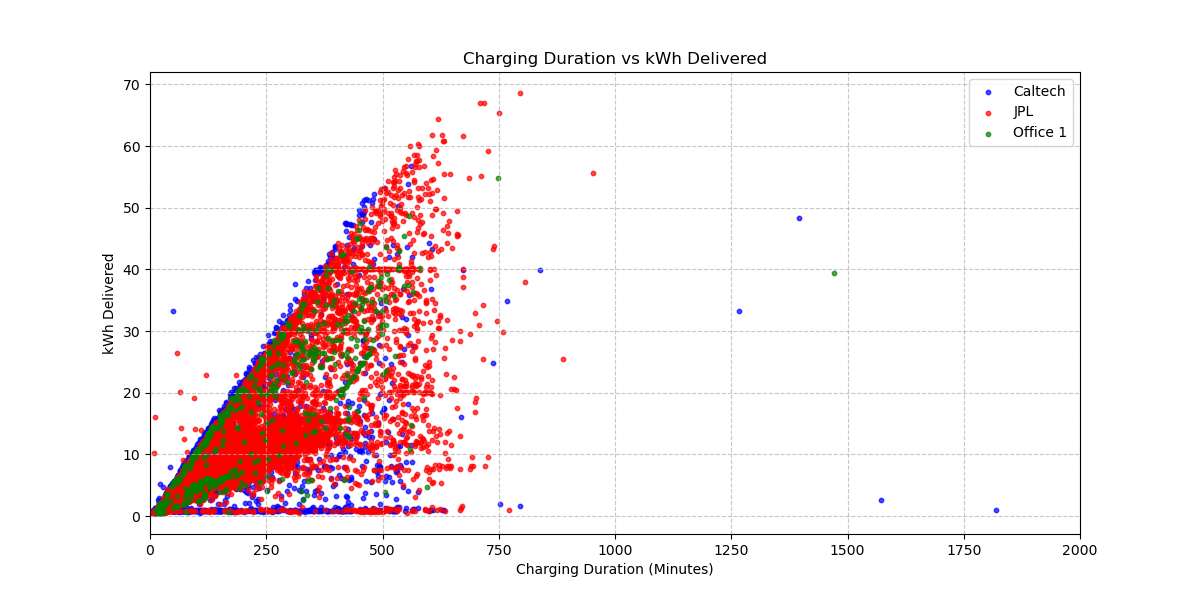
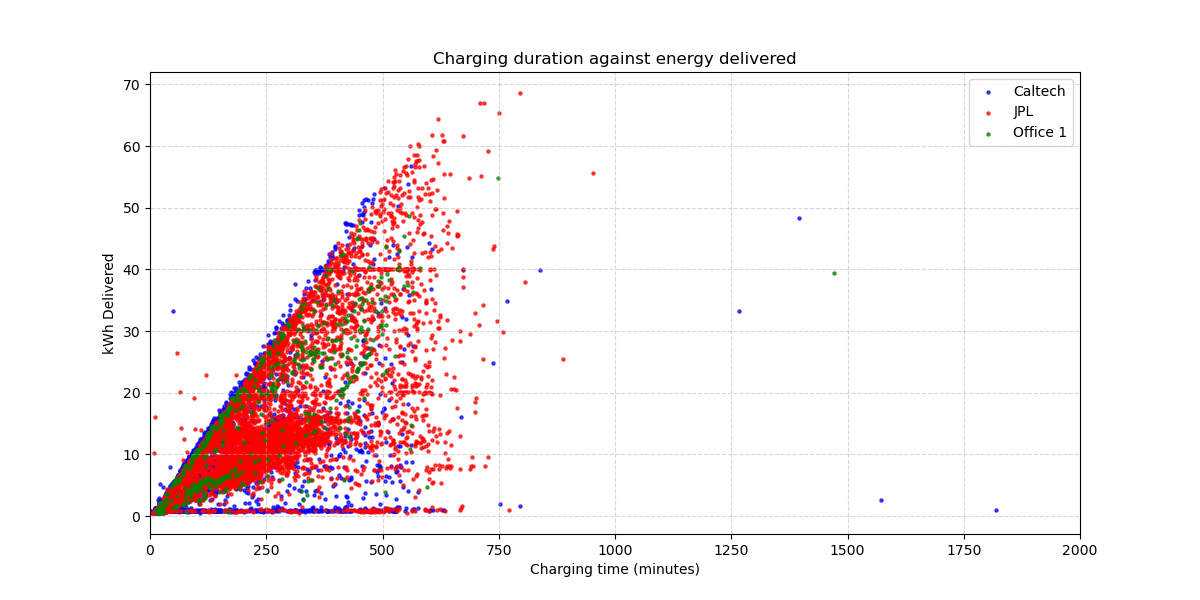
final scatter plots

Changed region(s): [[0.1233, 0.21, 0.4008, 0.87], [0.37, 0.09, 0.6783, 0.12], [0.4317, 0.93, 0.5858, 0.96]]

diff --git a/data analysis.py b/data analysis.py
@@ -1,218 +1,76 @@
 import pandas as pd
 import matplotlib.pyplot as plt
+import numpy as np
+import seaborn as sns
 
+# Load the CSV files
 df1 = pd.read_csv("Data/acndata_sessions 2019_11 till 2020_5 caltech.csv")
 df2 = pd.read_csv("Data/acndata_sessions 2019_11 till 2020_5 jpl.csv")
 df3 = pd.read_csv("Data/acndata_sessions 2019_11 till 2020_5 office1.csv")
 
-frequency = df1['userID'].value_counts()
-print(frequency)
-
-frequency2 = df2['userID'].value_counts()
-print(frequency2)
-
-frequency3 = df3['userID'].value_counts()
-print(frequency3)
-
-#frequency.plot(kind="bar")
-
-plt.show()
-
-# Load the CSV into a DataFrame
-df = pd.read_csv('Data/acndata_sessions 2019_11 till 2020_5 caltech.csv')
-
-# Load the three CSV files
-df1 = pd.read_csv('Data/acndata_sessions 2019_11 till 2020_5 caltech.csv')
-df2 = pd.read_csv('Data/acndata_sessions 2019_11 till 2020_5 jpl.csv')
-df3 = pd.read_csv('Data/acndata_sessions 2019_11 till 2020_5 office1.csv')
-
-# Function to process each dataset
+# Function to process data
 def process_data(df):
+    # Convert to datetime
     df[['connectionTime', 'doneChargingTime', 'disconnectTime']] = df[
         ['connectionTime', 'doneChargingTime', 'disconnectTime']
     ].apply(pd.to_datetime, errors='coerce')
 
+    # Calculate durations
     df['chargingDuration'] = (df['doneChargingTime'] - df['connectionTime']).dt.total_seconds() / 60
     df['stayingDuration'] = (df['disconnectTime'] - df['connectionTime']).dt.total_seconds() / 60
-    df['nonuseDuration'] = (df['stayingDuration'] - df['chargingDuration'])
-    return df.dropna(subset=['chargingDuration', 'stayingDuration', 'nonuseDuration', 'kWhDelivered'])
-
-# Process all datasets efficiently
-datasets = [df1, df2, df3]
-df1, df2, df3 = [process_data(df) for df in datasets]
-
-
-#Arrivel time vs. staying duration
-
-def process_data3(df):
-    # Convert to datetime (ensuring timezone awareness)
-    df.loc[:, 'connectionTime'] = pd.to_datetime(df['connectionTime'], errors='coerce', utc=True)
-
+    df['nonuseDuration'] = df['stayingDuration'] - df['chargingDuration']
+    
     # Convert connectionTime to PDT
-    df.loc[:, 'connectionTime_PDT'] = df['connectionTime'].dt.tz_convert('America/Los_Angeles')
+    df['connectionTime_PDT'] = df['connectionTime'].dt.tz_localize('UTC').dt.tz_convert('America/Los_Angeles')
+    df['arrivalMinutes'] = df['connectionTime_PDT'].dt.hour * 60 + df['connectionTime_PDT'].dt.minute
+    df['arrivalDate'] = df['connectionTime_PDT'].dt.date  # Extract arrival date
 
-    # Remove timezone from connectionTime_PDT for plotting purposes
-    df.loc[:, 'arrivalMinutes'] = df['connectionTime_PDT'].dt.hour * 60 + df['connectionTime_PDT'].dt.minute  
-
-    # Convert disconnectTime to PDT and make it timezone-naive for calculations
-
-    # Calculate staying duration
-
-    return df.dropna(subset=['arrivalMinutes', 'stayingDuration'])
+    return df.dropna(subset=['chargingDuration', 'stayingDuration', 'nonuseDuration', 'kWhDelivered', 'arrivalMinutes'])
 
 # Process all datasets
-df1, df2, df3 = [process_data3(df) for df in [df1, df2, df3]]
+df1, df2, df3 = [process_data(df) for df in [df1, df2, df3]]
 
-# Plot settings
-fig, ax = plt.subplots(figsize=(12, 6))
+# Define colors
+colors = {'Caltech': 'blue', 'JPL': 'red', 'Office1': 'green'}
 
-# Scatter plots for each dataset
-ax.scatter(df1['arrivalMinutes'], df1['stayingDuration'], color='b', s=10, alpha=0.7, label="Caltech")
-ax.scatter(df2['arrivalMinutes'], df2['stayingDuration'], color='r', s=10, alpha=0.7, label="JPL")
-ax.scatter(df3['arrivalMinutes'], df3['stayingDuration'], color='g', s=10, alpha=0.7, label="Office 1")
+# Helper function to create scatter plots
+def plot_scatter(x, y, xlabel, ylabel, title):
+    fig, ax = plt.subplots(figsize=(12, 6))
+    ax.scatter(df1[x], df1[y], color=colors['Caltech'], s=5, alpha=0.7, label="Caltech")
+    ax.scatter(df2[x], df2[y], color=colors['JPL'], s=5, alpha=0.7, label="JPL")
+    ax.scatter(df3[x], df3[y], color=colors['Office1'], s=5, alpha=0.7, label="Office 1")
+    ax.set_xlabel(xlabel)
+    ax.set_ylabel(ylabel)
+    ax.set_title(title)
+    ax.legend()
+    ax.grid(True, linestyle='--', alpha=0.5)
+    return fig, ax
 
-# Format x-axis to show time labels
-ax.set_xticks(range(0, 1441, 120))
-ax.set_xticklabels([f"{h:02d}:00" for h in range(0, 25, 2)])
-ax.set_ylim(0, 1000)
+# Plot 1: Arrival Time vs. Staying Duration
+fig1, ax1 = plot_scatter('arrivalMinutes', 'stayingDuration', 'Arrival time (PDT)', 'Staying time (minutes)', 'Arrival time against duration of stay')
+ax1.set_xticks(range(0, 1441, 120))
+ax1.set_xticklabels([f"{h:02d}:00" for h in range(0, 25, 2)])
+ax1.set_ylim(-75, 2000)
 
-# Format plot
-ax.set_xlabel('Arrival Time (PDT)')
-ax.set_ylabel('Staying Duration (Minutes)')
-ax.set_title('Arrival Time vs. Staying Duration (PDT)')
-ax.legend(loc='upper right')
-ax.grid(True, linestyle='--', alpha=0.5)
+# Plot 2: Charging Duration vs kWh Delivered
+fig2, ax2 = plot_scatter('chargingDuration', 'kWhDelivered', 'Charging time (minutes)', 'kWh Delivered', 'Charging duration against energy delivered')
+ax2.set_xlim(0, 2000)
 
-# Show plot
+# Plot 3: Staying Duration vs kWh Delivered
+fig3, ax3 = plot_scatter('stayingDuration', 'kWhDelivered', 'Stay time (minutes)', 'kWh Delivered', 'Durations of stay against energy delivered')
+ax3.set_xlim(0, 2000)
+
+# Plot 4: Non-use Duration vs kWh Delivered
+fig4, ax4 = plot_scatter('nonuseDuration', 'kWhDelivered', 'Non-use stay time (minutes)', 'kWh Delivered', 'Non-use staying time against energy delivered')
+ax4.set_xlim(0, 2000)
+
+# Plot 5: Arrival Time vs kWh Delivered
+fig5, ax5 = plot_scatter('arrivalMinutes', 'kWhDelivered', 'Arrival time (PDT)', 'kWh Delivered', 'Arrival time against energy delivered')
+ax5.set_xticks(range(0, 1441, 120))
+ax5.set_xticklabels([f"{h:02d}:00" for h in range(0, 25, 2)])
+
+# Plot 6: Arrival Date vs kWh Delivered
+fig6, ax6 = plot_scatter('arrivalDate', 'kWhDelivered', 'Arrival date', 'kWh Delivered', 'Arrival date against energy delivered')
+
+# Show all plots
 plt.show()
-
-
-# Arrival time vs kwh delivered
-# # Function to process datasets
-# def process_data2(df):
-#     df.loc[:, 'connectionTime'] = pd.to_datetime(df['connectionTime'], errors='coerce', utc=True)  # Convert to UTC
-#     df.loc[:, 'connectionTime_PDT'] = df['connectionTime'].dt.tz_convert('America/Los_Angeles')  # Convert to PDT
-#     df.loc[:, 'arrivalMinutes'] = df['connectionTime_PDT'].dt.hour * 60 + df['connectionTime_PDT'].dt.minute  # Convert to minutes since midnight
-    
-#      # Debug: Print a few timestamps before and after conversion
-#     print("Original UTC time:", df['connectionTime'].head(3))
-#     print("Converted PDT time:", df['connectionTime_PDT'].head(3))
-
-#     return df.dropna(subset=['arrivalMinutes', 'kWhDelivered'])  # Drop missing values
-
-# # Process all datasets
-# df1, df2, df3 = [process_data2(df) for df in [df1, df2, df3]]
-
-# # Plot settings
-# fig, ax = plt.subplots(figsize=(12, 6))
-
-# # Scatter plots for each dataset
-# ax.scatter(df1['arrivalMinutes'], df1['kWhDelivered'], color='b', s=10, alpha=0.7, label="Caltech")
-# ax.scatter(df2['arrivalMinutes'], df2['kWhDelivered'], color='r', s=10, alpha=0.7, label="JPL")
-# ax.scatter(df3['arrivalMinutes'], df3['kWhDelivered'], color='g', s=10, alpha=0.7, label="Office 1")
-
-# # Format x-axis to show time labels
-# ax.set_xticks(range(0, 1441, 120))  # Set x-ticks every 2 hours
-# ax.set_xticklabels([f"{h:02d}:00" for h in range(0, 25, 2)])  # Convert to readable format
-
-# # Format plot
-# ax.set_xlabel('Arrival Time (PDT)')
-# ax.set_ylabel('kWh Delivered')
-# ax.set_title('Arrival Time vs. kWh Delivered (PDT Time)')
-# ax.legend()
-# ax.grid(True, linestyle='--', alpha=0.5)
-
-# # Show the plot
-# plt.show()
-
-
-
-# plot arrival date vs. kwh delivered
-# # Function to process datasets
-# def process_data1(df):
-#     df['connectionTime'] = pd.to_datetime(df['connectionTime'], errors='coerce')
-#     df = df.dropna(subset=['connectionTime', 'kWhDelivered'])  # Drop missing values
-#     return df
-
-# # Process all datasets
-# df1, df2, df3 = [process_data1(df) for df in [df1, df2, df3]]
-
-# # Plot settings
-# fig, ax = plt.subplots(figsize=(12, 6))
-
-# # Scatter plots for each dataset
-# ax.scatter(df1['connectionTime'], df1['kWhDelivered'], color='b', s=5, alpha=0.7, label="Caltech")
-# ax.scatter(df2['connectionTime'], df2['kWhDelivered'], color='r', s=5, alpha=0.7, label="JPL")
-# ax.scatter(df3['connectionTime'], df3['kWhDelivered'], color='g', s=5, alpha=0.7, label="Office 1")
-
-# # Format plot
-# ax.set_xlabel('Arrival Time (Connection Time)')
-# ax.set_ylabel('kWh Delivered')
-# ax.set_title('Arrival Time vs. kWh Delivered')
-# ax.legend()
-# ax.grid(True, linestyle='--', alpha=0.5)
-# plt.xticks(rotation=45)  # Rotate x-axis labels for better visibility
-
-# # Show the plot
-# plt.show()
-
-
-
-
-##Plots of durations vs. kwh
-# # Create scatter plot
-# plt.figure(figsize=(12, 6))
-# plt.scatter(df1['chargingDuration'], df1['kWhDelivered'], color='b', s=10, alpha=0.7, label="Caltech")
-# plt.scatter(df2['chargingDuration'], df2['kWhDelivered'], color='r', s=10, alpha=0.7, label="JPL")
-# plt.scatter(df3['chargingDuration'], df3['kWhDelivered'], color='g', s=10, alpha=0.7, label="Office 1")
-
-# # Set limits and labels
-# plt.xlim(0, 2000)  # Limit x-axis to 2000 minutes
-# plt.xlabel('Charging Duration (Minutes)')
-# plt.ylabel('kWh Delivered')
-# plt.title('Charging Duration vs kWh Delivered')
-
-# #Add grid and legend
-# plt.grid(True, linestyle='--', alpha=0.7)
-# plt.legend()
-
-# #Show the plot
-# plt.show()
-
-# # Create scatter plot
-# plt.figure(figsize=(12, 6))
-# plt.scatter(df1['stayingDuration'], df1['kWhDelivered'], color='lightblue', s=10, alpha=0.7, label="Caltech stay")
-# plt.scatter(df2['stayingDuration'], df2['kWhDelivered'], color='orange', s=10, alpha=0.7, label="JPL stay")
-# plt.scatter(df3['stayingDuration'], df3['kWhDelivered'], color='lightgreen', s=10, alpha=0.7, label="Office 1 stay")
-
-# # Set limits and labels
-# plt.xlim(0, 4000)  # Limit x-axis to 2000 minutes
-# plt.xlabel('Staying Duration (Minutes)')
-# plt.ylabel('kWh Delivered')
-# plt.title('Staying Duration vs kWh Delivered')
-
-# # Add grid and legend
-# plt.grid(True, linestyle='--', alpha=0.7)
-# plt.legend()
-
-# # Show the plot
-# plt.show()
-
-# # Create scatter plot
-# plt.figure(figsize=(12, 6))
-# plt.scatter(df1['nonuseDuration'], df1['kWhDelivered'], color='darkblue', s=10, alpha=0.7, label="Caltech non use")
-# plt.scatter(df2['nonuseDuration'], df2['kWhDelivered'], color='yellow', s=10, alpha=0.7, label="JPL non use")
-# plt.scatter(df3['nonuseDuration'], df3['kWhDelivered'], color='darkgreen', s=10, alpha=0.7, label="Office 1 non use")
-
-# # Set limits and labels
-# plt.xlim(0, 2000)  # Limit x-axis to 2000 minutes
-# plt.xlabel('Non-use Duration (Minutes)')
-# plt.ylabel('kWh Delivered')
-# plt.title('Non-use Duration vs kWh Delivered')
-
-# # Add grid and legend
-# plt.grid(True, linestyle='--', alpha=0.7)
-# plt.legend()
-
-# # Show the plot
-# plt.show()
